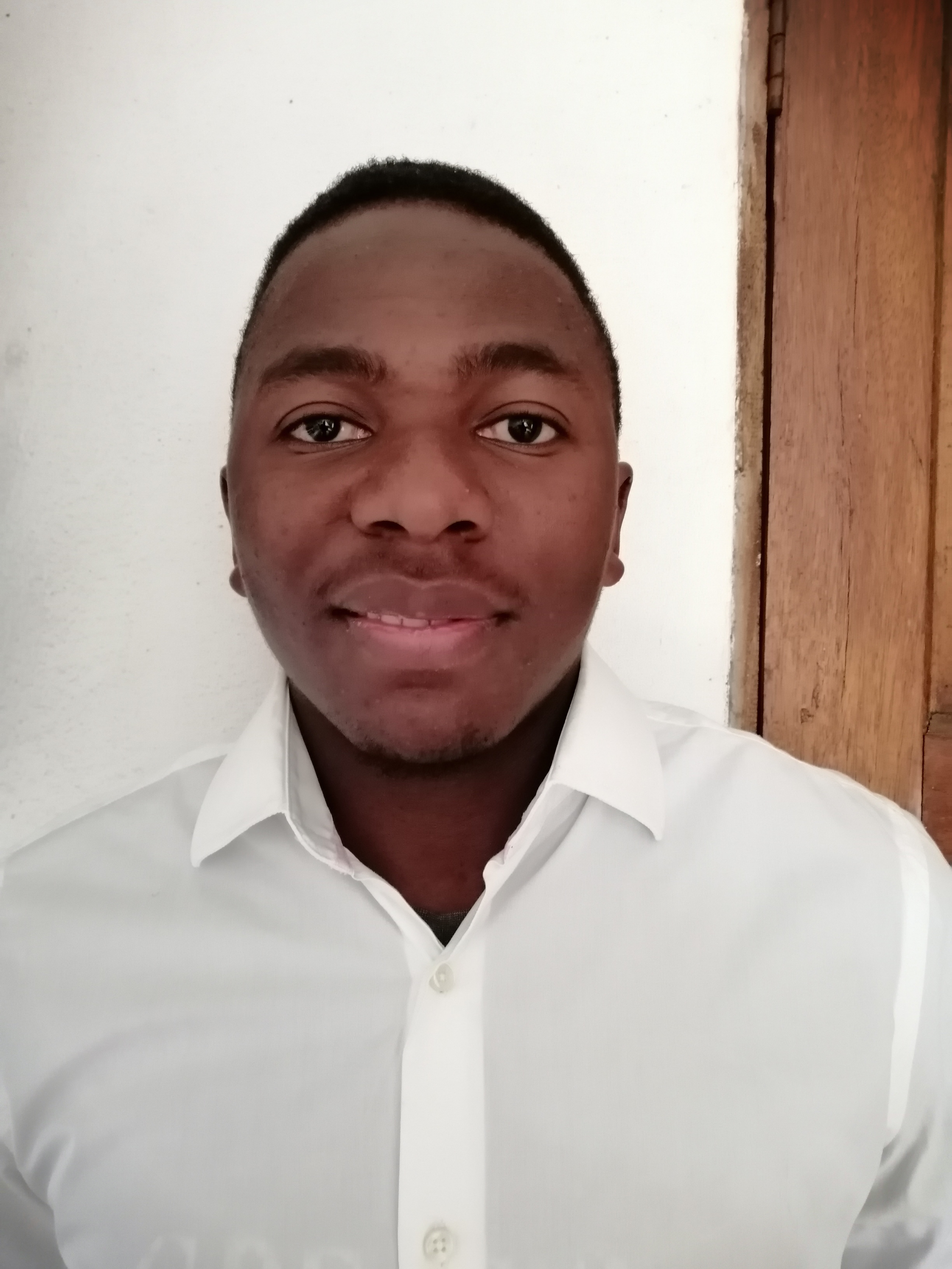
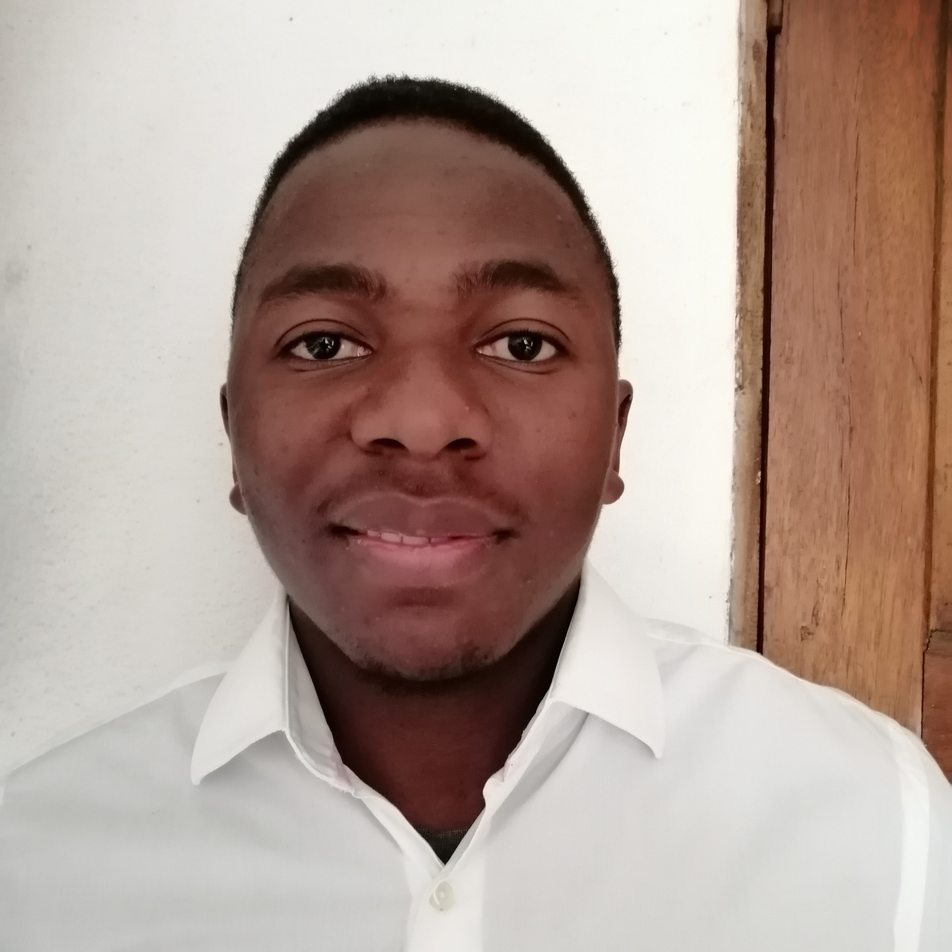
updated resume4 to resume5 by adding a border around my photo

diff --git a/css/stylesheet.css b/css/stylesheet.css
@@ -9,6 +9,37 @@ header {
     color: #FCF7F8;
     padding: 2.5em;
     text-align: center;
+    display: flex;
+    flex-direction: column;
+    justify-content: center;
+    place-items: center;
+}
+
+header aside {
+    height: 205px;
+    width: 205px;
+    cursor: default;
+    background: linear-gradient(135deg, #14ffe9, #ffeb3b, #ff00e0);
+    border-radius: 50%;
+    animation: animate 1.5s linear infinite;
+    display: flex;
+    justify-content: center;
+    align-items: center;
+    place-items: center;
+}
+
+header aside img {
+    width: 96%;
+    height: 96%;
+    object-fit: cover;
+    object-position: center;
+    border-radius: 50%;
+}
+
+@keyframes animate {
+    100% {
+        filter: hue-rotate(360deg);
+    }
 }
 
 nav {

diff --git a/index.html b/index.html
@@ -20,7 +20,7 @@
 <body>
     <header>
         <aside>
-            <img src="images/IMG_20211027_082626.jpg" alt="Ashleigh Tanaka Manyanye" height="204" width="153">
+            <img src="images/IMG_20211027_082626.jpg" alt="Ashleigh Tanaka Manyanye" height="100%" width="100%">
         </aside>
         <h1>Ashleigh Manyanye</h1>
         <p>An introductory personal statement.</p>
